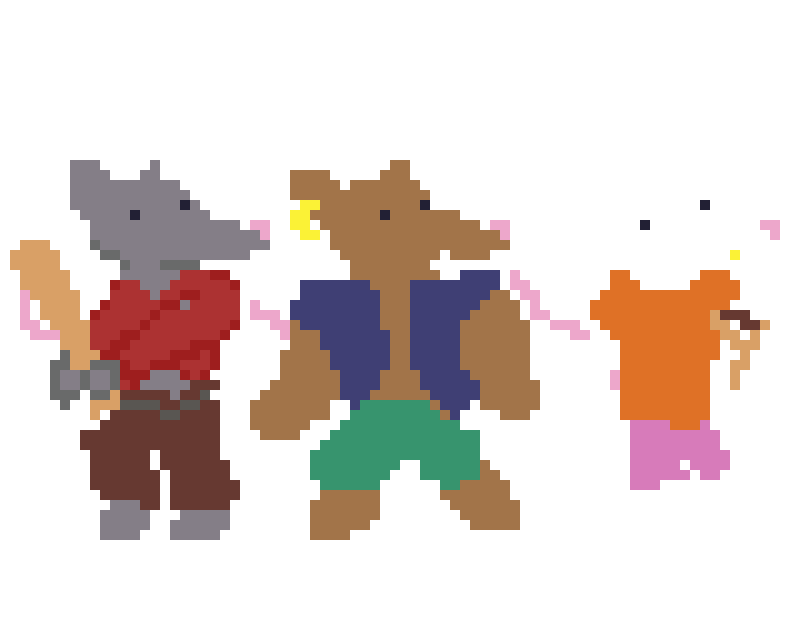
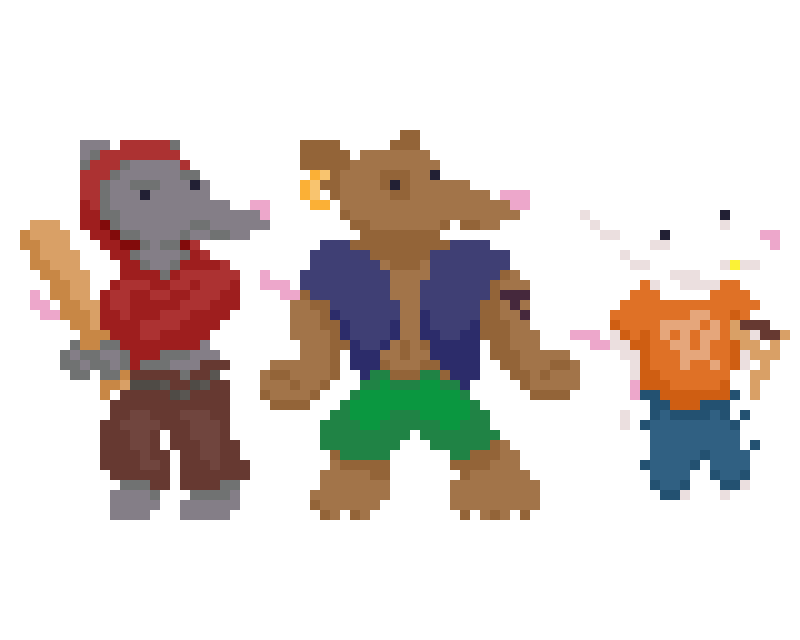
Commit from @user on 18.07.2026, 19:45:58

diff --git a/characters/rats.md b/characters/rats.md
@@ -25,4 +25,8 @@
 # Референсы
 ---
 
-<img src="rats-ref.png" width=400px height=320px>
+<div style="display:grid;place-items:center;margin:auto"><img src="rats-ref.png" width=500px height=400px></div>
+
+> [!info] Важно!
+> #### У каждого врага будет по несколько вариаций
+

diff --git a/characters/enemies/ranger-rat.md b/characters/enemies/ranger-rat.md
@@ -19,4 +19,5 @@
 # Референсы
 ---
 
-<img src="-ref.png" height=400px width=500px>
+<div style="display:grid;place-items:center;margin:auto"><img src="ranger-rat-ref.png" height=600px width=600px></div>
+

diff --git a/characters/enemies/batter-rat.md b/characters/enemies/batter-rat.md
@@ -17,4 +17,4 @@
 # Референсы
 ---
 
-<img src="-ref.png" height=400px width=500px>
+<div style="display:grid;place-items:center;margin:auto"><img src="batter-rat-ref.png" height=600px width=600px></div>

diff --git a/characters/enemies/buffed-rat.md b/characters/enemies/buffed-rat.md
@@ -17,4 +17,4 @@
 # Референсы
 ---
 
-<img src="-ref.png" height=400px width=500px>
+<div style="display:grid;place-items:center;margin:auto"><img src="buffed-rat-ref.png" height=600px width=600px></div>